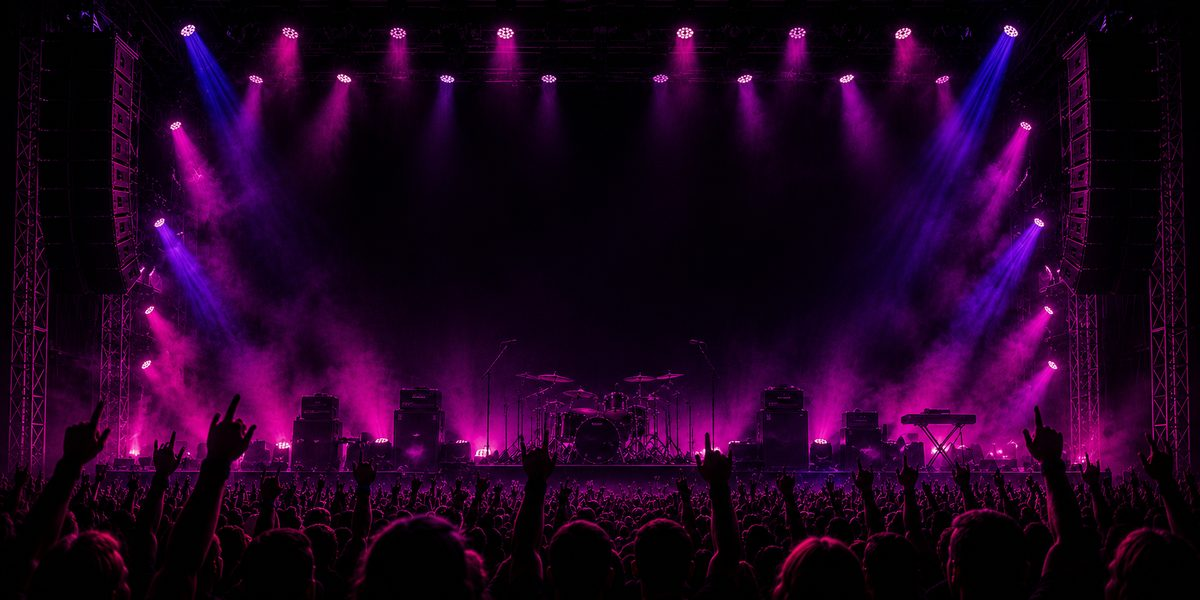
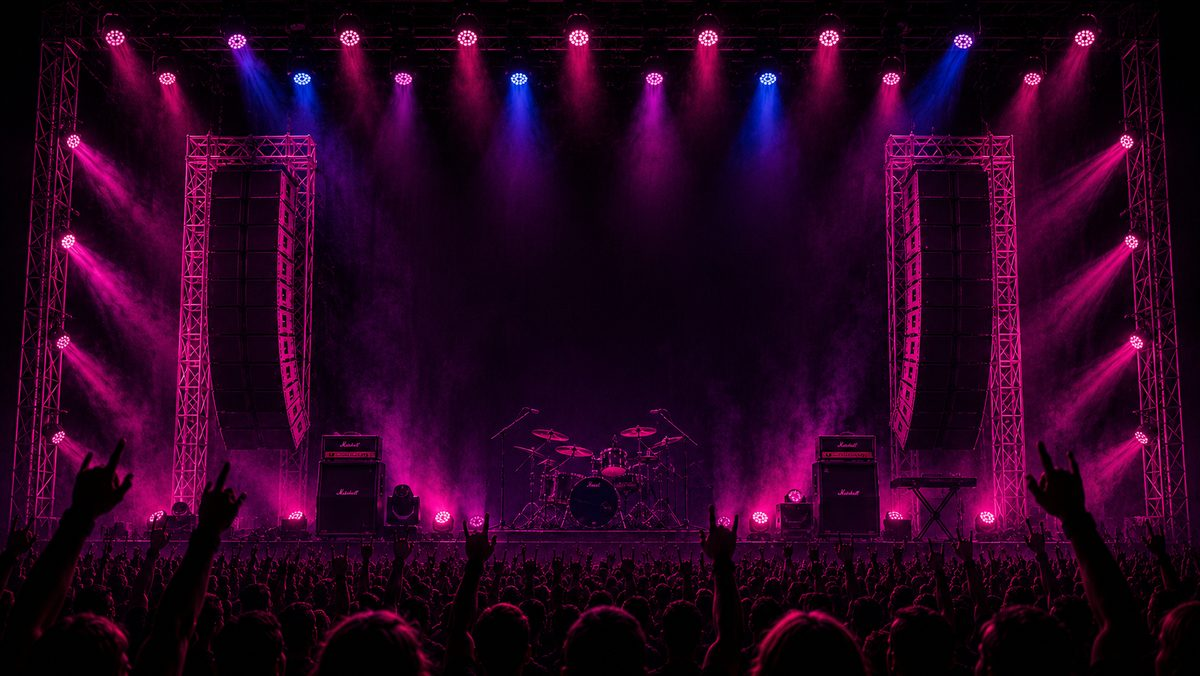
SFS Music: header background new 3 v7

diff --git a/index.html b/index.html
@@ -867,7 +867,7 @@ function numShelf(title,arr){ if(arr.length<1) return ''; var tiles=arr.map(func
 /* ===== views: Play (home) · Explore · My Vaults ===== */
 var curEdition='music', curView='play';
 function setEdition(id){ curEdition=id; var e=edById(id); if(e) document.documentElement.style.setProperty('--accent', e.accent); applyTheme(id,true); render(); var app=document.getElementById('app'); if(app){ app.classList.remove('edin'); void app.offsetWidth; app.classList.add('edin'); } window.scrollTo(0,0); }
-var THEME={music:{hdr:"music-header.jpg?v=6",logo:"music-logo.png?v=3",floor:"music-floor.jpg?v=3",fb:0.3},filmtv:{hdr:"movies-header.jpg?v=1",logo:"movies-logo.png?v=1",floor:"movies-floor.jpg?v=1",fb:0.55},sports:{hdr:"sports-header.jpg?v=1",logo:"sports-logo.png?v=1",floor:"sports-floor.jpg?v=1",fb:0.3}};
+var THEME={music:{hdr:"music-header.jpg?v=7",logo:"music-logo.png?v=3",floor:"music-floor.jpg?v=3",fb:0.3},filmtv:{hdr:"movies-header.jpg?v=1",logo:"movies-logo.png?v=1",floor:"movies-floor.jpg?v=1",fb:0.55},sports:{hdr:"sports-header.jpg?v=1",logo:"sports-logo.png?v=1",floor:"sports-floor.jpg?v=1",fb:0.3}};
 var _hb=1,_lg=1,_fl=1;
 function applyTheme(id,animate){ var t=THEME[id]||THEME.music; var hb=1-_hb,h=document.getElementById('hdr'+hb),ho=document.getElementById('hdr'+_hb); if(h){h.style.backgroundImage="url('"+t.hdr+"')";h.style.opacity='1';} if(ho)ho.style.opacity='0'; _hb=hb; var lg=1-_lg,l=document.getElementById('logo'+lg),lo=document.getElementById('logo'+_lg); if(l){l.src=t.logo;l.style.opacity='1'; if(animate){l.classList.remove('pulse');void l.offsetWidth;l.classList.add('pulse');}} if(lo)lo.style.opacity='0'; _lg=lg; var fl=1-_fl,fe=document.getElementById('floor'+fl),foe=document.getElementById('floor'+_fl); if(fe){fe.style.backgroundImage="url('"+t.floor+"')";fe.style.opacity='1';} if(foe)foe.style.opacity='0'; _fl=fl; var fbg=document.getElementById('floorbg'); if(fbg) fbg.style.filter='brightness('+(t.fb||0.3)+')'; }
 function preloadThemes(){ for(var k in THEME){ (function(t){['hdr','logo','floor'].forEach(function(p){var im=new Image();im.src=t[p];});})(THEME[k]); } }

diff --git a/sw.js b/sw.js
@@ -1,4 +1,4 @@
-var CACHE='sfs-v31';
+var CACHE='sfs-v32';
 var ASSETS=['/','/index.html','/play.html','/manifest.webmanifest','/icon-192.png','/icon-512.png','/apple-touch-icon.png'];
 self.addEventListener('install',function(e){ e.waitUntil(caches.open(CACHE).then(function(c){return c.addAll(ASSETS).catch(function(){});}).then(function(){return self.skipWaiting();})); });
 self.addEventListener('activate',function(e){ e.waitUntil(caches.keys().then(function(keys){return Promise.all(keys.map(function(k){if(k!==CACHE)return caches.delete(k);}));}).then(function(){return self.clients.claim();})); });
